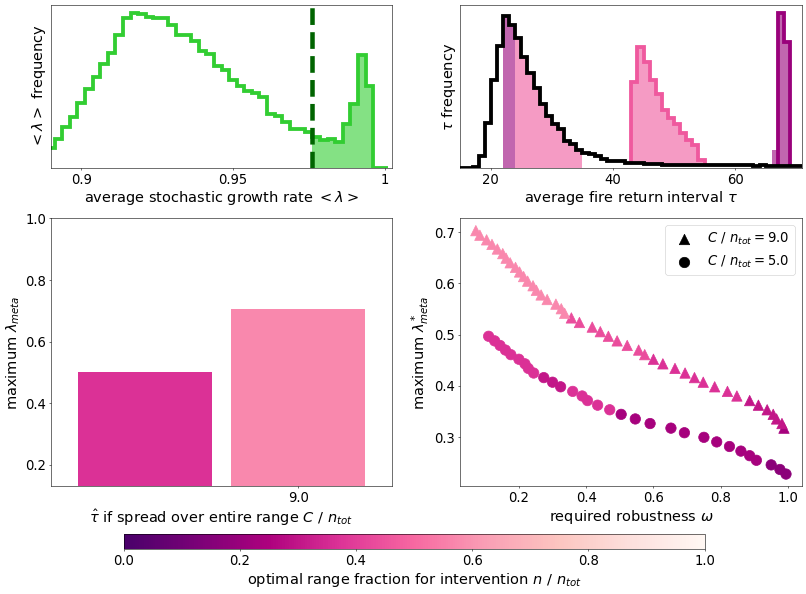
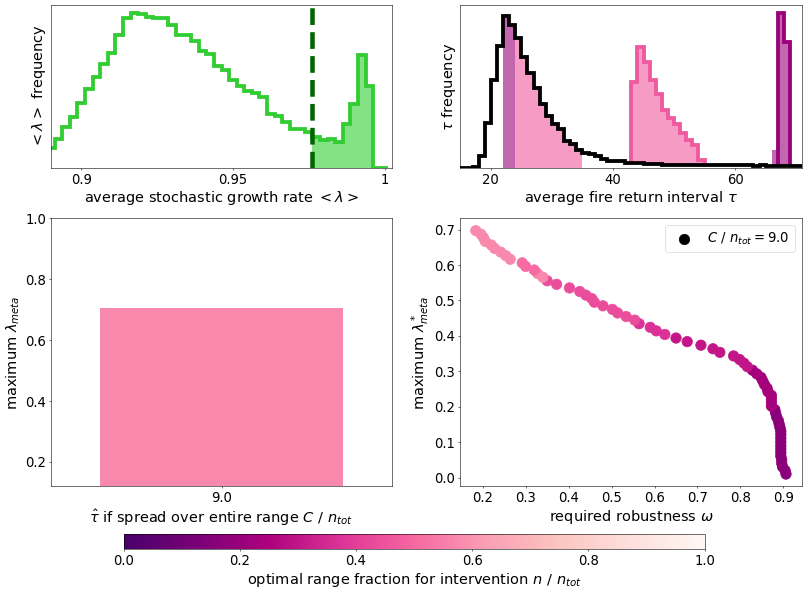
Include demographic uncertainty
First attempt, robustness curve qualitatively the same except for a sharp dip in achievable threshold at very high robustness. Cell metric qualitatively different: less 'conserved' and 'included' cells

diff --git a/sensitivity/project.py b/sensitivity/project.py
@@ -262,7 +262,6 @@ class Phase:
             # Init data to be read on root
             self.tau_flat = None
             self.data_dir = None
-            self.metric_exp_spl = None
         else:
             # Handle data reading on root alone
             project = sg.get_project()
@@ -272,20 +271,22 @@ class Phase:
             jobs = project.find_jobs({'doc.simulated': True, 'Aeff': self.Aeff, 
                                       't_final': self.t_final, 'method': self.sim_method})
             self.data_dir = f"{self.meta_metric}/data/Aeff_{self.Aeff}/tfinal_{self.t_final}"
-            fn = self.data_dir + "/all_tau.npy"
+            fn = self.data_dir + "/tau_all.npy"
             if (not os.path.isfile(fn)) or self.overwrite_metrics:
-                all_tau = np.tile(self.tau_vec, len(jobs))
-                np.save(fn, all_tau)
+                tau_all = np.tile(self.tau_vec, len(jobs))
+                np.save(fn, tau_all)
             else:
-                all_tau = np.load(fn)
+                tau_all = np.load(fn)
 
             self.data_dir = f"{self.meta_metric}/data/Aeff_{self.Aeff}/tfinal_{self.t_final}/metric_{self.metric}"
-            fn = self.data_dir + f"/all_metric.npy"
+            fn = self.data_dir + f"/metric_all.npy"
             if (not os.path.isfile(fn)) or self.overwrite_metrics:
-                # Loop over all jobs and collect metric data
-                all_metric = np.array([])
+                # Loop over all jobs and process metric data
+                metric_all = np.array([]) # To collect data across all jobs
+                metric_spl_all = {} # To collect spline interpolations across all jobs
                 for job_i, job in enumerate(jobs):
                     with job.data as data:
+                        # Get the metric values across all b (i.e. tau) samples for this demo param sample
                         metric_vec = []
                         for b in self.b_vec:
                             if self.metric == 'P_s':
@@ -294,13 +295,43 @@ class Phase:
                                 metric_vec.append(1.0 - float(data[f'frac_extirpated/{b}'][T-1]))
                             else:
                                 metric_vec.append(float(data[f'{self.metric}/{b}']))
-                    all_metric = np.append(all_metric, metric_vec)
+
+                        # Store metric samples
+                        metric_all = np.append(metric_all, metric_vec)
+
+                        # Create and store interpolation function for this demo sample 
+                        t = self.tau_vec[2:-2:2] 
+                        k = 3
+                        t = np.r_[(self.tau_vec[1],)*(k+1), t, (self.tau_vec[-1],)*(k+1)]
+                        metric_spl = make_lsq_spline(self.tau_vec[1:], metric_vec[1:], t, k)
+                        metric_spl_all.update({job.sp.demographic_index: metric_spl})
 
                 # Save collected metric data to file
                 with open(fn, 'wb') as handle:
-                    np.save(fn, all_metric)
+                    np.save(fn, metric_all)
                     
-                # Plot the metric probability density
+                # Create interpolating function for average metric(tau) values
+                metric_vec = np.ones(self.tau_vec.size) * np.nan
+                for tau_i, tau in enumerate(self.tau_vec):
+                    tau_filt = (tau_all == tau)
+                    metric_slice = metric_all[tau_filt]
+                    metric_vec[tau_i] = np.mean(metric_slice)
+                t = self.tau_vec[2:-2:2] 
+                k = 3
+                t = np.r_[(self.tau_vec[1],)*(k+1), t, (self.tau_vec[-1],)*(k+1)]
+                metric_spl = make_lsq_spline(self.tau_vec[1:], metric_vec[1:], t, k)
+                metric_spl_all.update({0: metric_spl}) # Store on demographic index 0
+
+                # Save interpolated metric(tau) functions to file
+                with open(self.data_dir + "/metric_spl_all.pkl", "wb") as handle:
+                    pickle.dump(metric_spl_all, handle)
+            #else:
+                #metric_all = np.load(fn)
+                #with open(self.data_dir + "/metric_spl_all.pkl", "rb") as handle:
+                #    metric_spl_all = pickle.load(handle)
+
+            # Plot the metric probability density
+            if (not os.path.isfile(self.data_dir + f"/metric_all.npy")) or self.overwrite_metrics:
                 print(f"Creating {self.metric} histogram") 
                 fig, ax = plt.subplots(figsize=(13,8))
                 tau_diffs = np.diff(self.tau_vec)
@@ -311,11 +342,11 @@ class Phase:
                                 np.arange(self.tau_vec[1]+tau_step/2, self.tau_vec[-1]+tau_step, tau_step)
                                            ))
                 min_edge_i = 2
-                metric_min = min(all_metric[(all_tau >= tau_edges[min_edge_i]) & (all_tau < tau_edges[min_edge_i+1])])
-                metric_edges = np.linspace(metric_min, all_metric.max()*1.005, 50)
+                metric_min = min(metric_all[(tau_all >= tau_edges[min_edge_i]) & (tau_all < tau_edges[min_edge_i+1])])
+                metric_edges = np.linspace(metric_min, metric_all.max()*1.005, 50)
                 cmap = copy.copy(matplotlib.cm.YlGn)
-                im = ax.hist2d(all_tau, all_metric, bins=[tau_edges, metric_edges],
-                                 norm=matplotlib.colors.LogNorm(vmax=int(len(all_metric)/len(self.b_vec))),
+                im = ax.hist2d(tau_all, metric_all, bins=[tau_edges, metric_edges],
+                                 norm=matplotlib.colors.LogNorm(vmax=int(len(metric_all)/len(self.b_vec))),
                                  density=False,
                                 cmap=cmap)
                 # Add the colorbar to inset axis
@@ -331,19 +362,6 @@ class Phase:
                     os.makedirs(figs_dir)
                 fig.savefig(figs_dir + f"sensitivity", bbox_inches='tight', dpi=50)
                 plt.close(fig)
-            else:
-                all_metric = np.load(fn)
-
-            # Create interpolating function for <metric>(tauc)
-            metric_expect_vec = np.ones(self.tau_vec.size) * np.nan
-            for tau_i, tau in enumerate(self.tau_vec):
-                tau_filt = (all_tau == tau)
-                metric_slice = all_metric[tau_filt]
-                metric_expect_vec[tau_i] = np.mean(metric_slice)
-            t = self.tau_vec[2:-2:2] 
-            k = 3
-            t = np.r_[(self.tau_vec[1],)*(k+1), t, (self.tau_vec[-1],)*(k+1)]
-            self.metric_exp_spl = make_lsq_spline(self.tau_vec[1:], metric_expect_vec[1:], t, k)
 
             # Read in FDM
             usecols = np.arange(self.ul_coord[0], self.lr_coord[0])
@@ -376,7 +394,6 @@ class Phase:
         # Broadcast data used later to all ranks
         self.tau_flat = self.comm.bcast(self.tau_flat, root=self.root)
         self.data_dir = self.comm.bcast(self.data_dir, root=self.root)
-        self.metric_exp_spl = self.comm.bcast(self.metric_exp_spl, root=self.root)
 
         # Store the total number of cells as an instance variable
         self.ncell_tot = len(self.tau_flat)
@@ -666,31 +683,31 @@ class Phase:
         # Get expected value of metric
         '''Replace any tau > max simulated with max tau, similar approximation as before'''
         tau_with_cutoff = np.where(self.tau_expect > self.tau_vec.max(), self.tau_vec.max(), self.tau_expect)
-        metric_exp_dist = self.metric_exp_spl(tau_with_cutoff)
+        metric_dist = self.metric_spl(tau_with_cutoff)
         if self.metric == 'P_s':
             # Metric value is bounded by zero, anything lt zero is an interpolation error
-            metric_exp_dist[metric_exp_dist < 0] = 0.0
-            if np.any(metric_exp_dist < 0): sys.exit(f"metric_expect is negative ({self.metric_expect}), exiting!")
-        self.metric_expect = np.mean(metric_exp_dist)
+            metric_dist[metric_dist < 0] = 0.0
+            if np.any(metric_dist < 0): sys.exit(f"metric_expect is negative ({self.metric_expect}), exiting!")
+        self.metric_expect = np.mean(metric_dist)
 
     def calculate_metric_gte(self, vectorized=False):
         # Get density of metric_k values above some threshold
         '''Replace any tau > max simulated with max tau, similar approximation as before'''
         tau_with_cutoff = np.where(self.tau_expect > self.tau_vec.max(), self.tau_vec.max(), self.tau_expect)
-        metric_exp_dist = self.metric_exp_spl(tau_with_cutoff)
+        metric_dist = self.metric_spl(tau_with_cutoff)
         if self.metric == 'P_s':
             threshold = 0.5
             # Metric value is bounded by zero, anything lt zero is an interpolation error
-            metric_exp_dist[metric_exp_dist < 0] = 0.0
-            if np.any(metric_exp_dist < 0): sys.exit(f"metric_expect is negative ({self.metric_expect}), exiting!")
+            metric_dist[metric_dist < 0] = 0.0
+            if np.any(metric_dist < 0): sys.exit(f"metric_expect is negative ({self.metric_expect}), exiting!")
         elif self.metric == 'lambda_s':
             threshold = 0.975
             #threshold = 0.994
         '''Still calling this metric_expect for now but should change this to metapop_metric or something'''
         if vectorized:
-            self.metric_expect = np.count_nonzero(metric_exp_dist >= threshold, axis=1) / self.ncell_tot
+            self.metric_expect = np.count_nonzero(metric_dist >= threshold, axis=1) / self.ncell_tot
         else:
-            self.metric_expect = np.count_nonzero(metric_exp_dist >= threshold) / self.ncell_tot
+            self.metric_expect = np.count_nonzero(metric_dist >= threshold) / self.ncell_tot
 
     def process_samples(self, C, ncell):
         '''is relocating these indicies significantly slowing things down?'''

diff --git a/sensitivity/phase_mcsampled.py b/sensitivity/phase_mcsampled.py
@@ -9,6 +9,7 @@ import timeit
 from itertools import product
 import os
 import h5py
+import pickle
 
 rng = np.random.default_rng()
 
@@ -32,10 +33,8 @@ constants.update({'tauc_method': 'flat'})
 constants.update({'overwrite_metrics': True}) 
 constants['overwrite_results'] = True
 
-constants['plotting_tau_bw_ratio'] = 30 #For binning initial tau (with uncertainty) in phase slice plots
-
 # Get list of samples for each parameter
-constants['tauc_min_samples'] = np.array([5.0, 9.0])
+constants['tauc_min_samples'] = np.array([9.0])
 constants['ncell_samples'] = 15
 constants['slice_samples'] = 30
 
@@ -44,18 +43,25 @@ start_time = timeit.default_timer()
 
 # Define ordered list of parameter keys
 param_keys = ['C', 'ncell', 'slice_left',
-              'mu_tau', 'sigm_tau', 'mu_tauc', 'sigm_tauc']
+              'mu_tau', 'sigm_tau', 'mu_tauc', 'sigm_tauc', 'demographic_index']
 
 # Initialize "Phase" instance for processing samples
 pproc = Phase(**constants)
 pproc.initialize()
 pproc.init_strategy_variables()
-sys.exit('exiting')
-assert pproc.metric_exp_spl(pproc.min_tau) > 0
 
+# Read in all splined interpolations of metric(tau)
+with open(pproc.data_dir + "/metric_spl_all.pkl", "rb") as handle:
+    metric_spl_all = pickle.load(handle)
+
+# Population full list of parameter combinations 'x_all'
 if pproc.rank != pproc.root:
     x_all = None
 else:
+    # Check that all splines makes sense
+    for metric_spl in metric_spl_all.values():
+        assert metric_spl(pproc.min_tau) > 0
+
     # Theoretical (or ad-hoc) maxima/minima for parameters
     minima = {
         # 'C': 5.*pproc.ncell_tot,
@@ -64,7 +70,8 @@ else:
         'mu_tau': -10.,
         'sigm_tau': 0.,
         'mu_tauc': -10.,
-        'sigm_tauc': 0.
+        'sigm_tauc': 0.,
+        'demographic_index': 1
     }
     maxima = {
         # 'C': 5.*pproc.ncell_tot,
@@ -73,7 +80,8 @@ else:
         'mu_tau': 6.,
         'sigm_tau': 10.,
         'mu_tauc': 6.,
-        'sigm_tauc': 10.
+        'sigm_tauc': 10.,
+        'demographic_index': len(metric_spl_all) - 1
     }
 
     ### Initialize strategy combinations ### 
@@ -109,7 +117,7 @@ else:
     x_all = np.tile(x_strategy, (num_eps_combs, 1))
 
     # Fill columns with samples of uncertain parameters
-    uncertain_params = ['mu_tau', 'sigm_tau', 'mu_tauc', 'sigm_tauc']
+    uncertain_params = ['mu_tau', 'sigm_tau', 'mu_tauc', 'sigm_tauc', 'demographic_index']
 
     # Add columns for uncertain param samples
     x_all = np.hstack((
@@ -134,7 +142,7 @@ else:
         if _type == float:
             samples = rng.uniform(_min, _max, num_combs_tot-num_strategy_combs)
         elif _type == int:
-            samples = rng.integers(_min, _max, num_combs_tot-num_strategy_combs)
+            samples = rng.integers(_min, _max, num_combs_tot-num_strategy_combs, endpoint=True)
         x_all[num_strategy_combs:, uncertain_param_i] = samples
 
     # Shuffle to give all procs ~ the same amount of work
@@ -162,10 +170,17 @@ for rank_sample_i, x_i in enumerate(range(pproc.rank_start, pproc.rank_start + p
     for i, param in enumerate(param_keys):
         # Assign parameter values for this sample
         if i in [1,2]:
-            _type = int
+            #_type = int
+            param_val = int(x[i])
+        elif param == 'demographic_index':
+            # Retrieve the spline function for this demographic sample
+            demographic_index = int(x[i])
+            param_val = metric_spl_all[demographic_index]
+            param = 'metric_spl'
         else:
-            _type = float
-        setattr(pproc, param, x[i].astype(_type))
+            #_type = float
+            param_val = float(x[i])
+        setattr(pproc, param, param_val)
 
     # Reset tau values to baseline
     pproc.tau_expect = pproc.tau_flat

diff --git a/sensitivity/makefig.py b/sensitivity/makefig.py
@@ -32,7 +32,7 @@ tau_vec = b_vec * gamma(1+1/c)
 tauc_methods = ["flat"]
 #C_i_vec = [0,1,2,4,6]
 #C_i_vec = [0,2,4,6]
-C_i_vec = [0, 1]
+#C_i_vec = [0, 1]
 results_pre = 'gte_thresh' 
 #results_pre = 'distribution_avg' 
 
@@ -71,9 +71,10 @@ def set_globals(results_pre):
     #                                       'Google Drive', 'My Drive', 'Research', 'Regan', 'Figs/')
 
     # Load things saved specific to these results
-    globals()['all_metric'] = np.load(f"{results_pre}/data/Aeff_{Aeff}/tfinal_{t_final}/metric_{metric}/all_metric.npy")
-    globals()['all_tau'] = np.load(f"{results_pre}/data/Aeff_{Aeff}/tfinal_{t_final}/all_tau.npy")
+    globals()['metric_all'] = np.load(f"{results_pre}/data/Aeff_{Aeff}/tfinal_{t_final}/metric_{metric}/metric_all.npy")
+    globals()['tau_all'] = np.load(f"{results_pre}/data/Aeff_{Aeff}/tfinal_{t_final}/tau_all.npy")
     globals()['C_vec'] = np.load(fn_prefix + "C_vec.npy")
+    globals()['C_i_vec'] = np.arange(len(C_vec)) 
     globals()['ncell_vec'] = np.load(fn_prefix + "ncell_vec.npy")
     globals()['slice_left_all'] = np.load(fn_prefix + "slice_left_all.npy")
     eps_axes = {}
@@ -155,12 +156,12 @@ tau_edges = np.concatenate((
                 np.arange(tau_vec[1]+tau_step/2, tau_vec[-1]+tau_step, tau_step)
                            ))
 min_edge_i = 2
-metric_min = min(all_metric[(all_tau >= tau_edges[min_edge_i]) & (all_tau < tau_edges[min_edge_i+1])])
-metric_edges = np.linspace(metric_min, all_metric.max()*1.005, 50)
+metric_min = min(metric_all[(tau_all >= tau_edges[min_edge_i]) & (tau_all < tau_edges[min_edge_i+1])])
+metric_edges = np.linspace(metric_min, metric_all.max()*1.005, 50)
 cmap = copy.copy(cm.YlGn)
 #cmap.set_bad(cmap(0.0))
-im = ax3.hist2d(all_tau, all_metric, bins=[tau_edges, metric_edges],
-                 norm=colors.LogNorm(vmax=int(len(all_metric)/len(b_vec))),
+im = ax3.hist2d(tau_all, metric_all, bins=[tau_edges, metric_edges],
+                 norm=colors.LogNorm(vmax=int(len(metric_all)/len(b_vec))),
                  density=False,
                 cmap=cmap)
 
@@ -174,8 +175,8 @@ cbar = fig.colorbar(sm, cax=cbar_ax, orientation="vertical", ticks=[0, 0.25, 0.5
 # Make interpolation function for <metric> wrt tau
 metric_expect_vec = np.ones(tau_vec.size) * np.nan
 for tau_i, tau in enumerate(tau_vec):
-    tau_filt = (all_tau == tau)
-    metric_slice = all_metric[tau_filt]
+    tau_filt = (tau_all == tau)
+    metric_slice = metric_all[tau_filt]
     metric_expect_vec[tau_i] = np.mean(metric_slice)
 t = tau_vec[2:-2:2] 
 k = 3

diff --git a/sensitivity/postprocess_mcsampled.py b/sensitivity/postprocess_mcsampled.py
@@ -23,7 +23,7 @@ tau_step = np.diff(tau_vec)[0] / 2
 tau_edges = np.concatenate(([0], np.arange(tau_step/2, tau_vec[-1]+tau_step, tau_step)))
 tauc_methods = ["flat"]
 #C_i_vec = [0,1,2,4,6] # For generation of cell metric data
-C_i_vec = [0, 1]
+#C_i_vec = [0, 1]
 results_pre_labs = ['gte_thresh']
 #results_pre_labs = ['distribution_avg']
 overwrite_robustness = True
@@ -36,9 +36,10 @@ def set_globals(results_pre):
     globals()['fig_prefix'] = f"{results_pre}/figs/Aeff_{Aeff}/tfinal_{t_final}/metric_{metric}/"
 
     # Load things saved specific to these results
-    globals()['all_metric'] = np.load(f"{results_pre}/data/Aeff_{Aeff}/tfinal_{t_final}/metric_{metric}/all_metric.npy")
-    globals()['all_tau'] = np.load(f"{results_pre}/data/Aeff_{Aeff}/tfinal_{t_final}/all_tau.npy")
+    globals()['metric_all'] = np.load(f"{results_pre}/data/Aeff_{Aeff}/tfinal_{t_final}/metric_{metric}/metric_all.npy")
+    globals()['tau_all'] = np.load(f"{results_pre}/data/Aeff_{Aeff}/tfinal_{t_final}/tau_all.npy")
     globals()['C_vec'] = np.load(fn_prefix + "C_vec.npy")
+    globals()['C_i_vec'] = np.arange(len(C_vec)) 
     globals()['ncell_vec'] = np.load(fn_prefix + "ncell_vec.npy")
     globals()['slice_left_all'] = np.load(fn_prefix + "slice_left_all.npy")
     eps_axes = {}

diff --git a/sensitivity/init.py b/sensitivity/init.py
@@ -53,7 +53,7 @@ for Aeff, t_final, demographic_samples, method in product(Aeff_vec, t_final_vec,
 
     #params = mort_fixed
     for i in range(demographic_samples):
-        sp = {'params': {}, 'Aeff': Aeff, 't_final': t_final, 'method': method}
+        sp = {'params': {}, 'Aeff': Aeff, 't_final': t_final, 'method': method, 'demographic_index': i+1}
         for p_i, p in enumerate(mort_samples[i]):
             sp['params'].update({mort_labels[p_i]: float(p)})
         for p_i, p in enumerate(fec_samples[i]):
